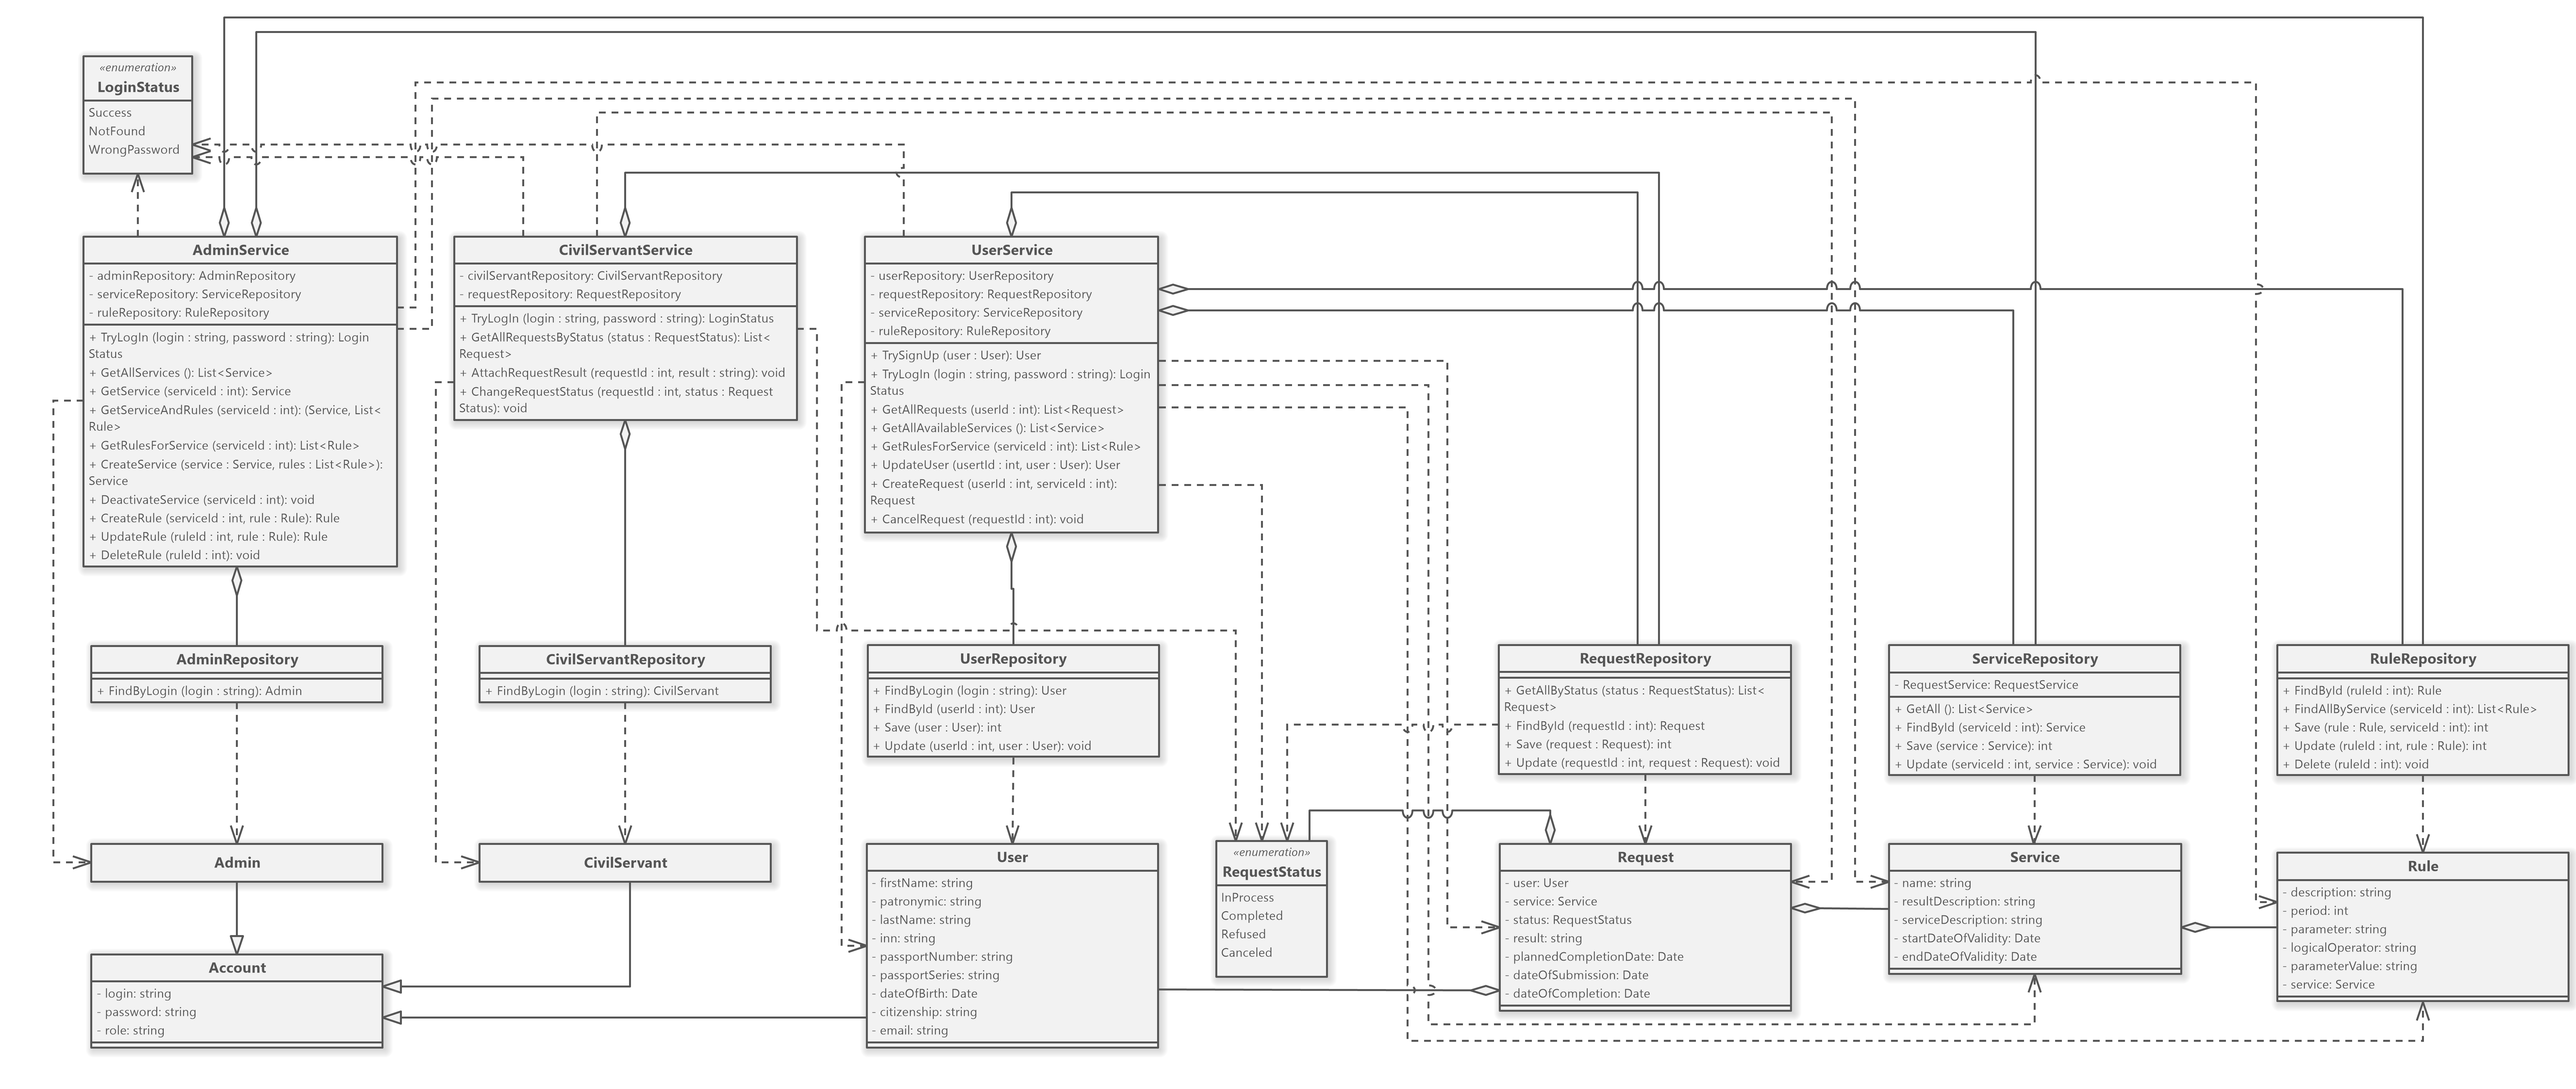
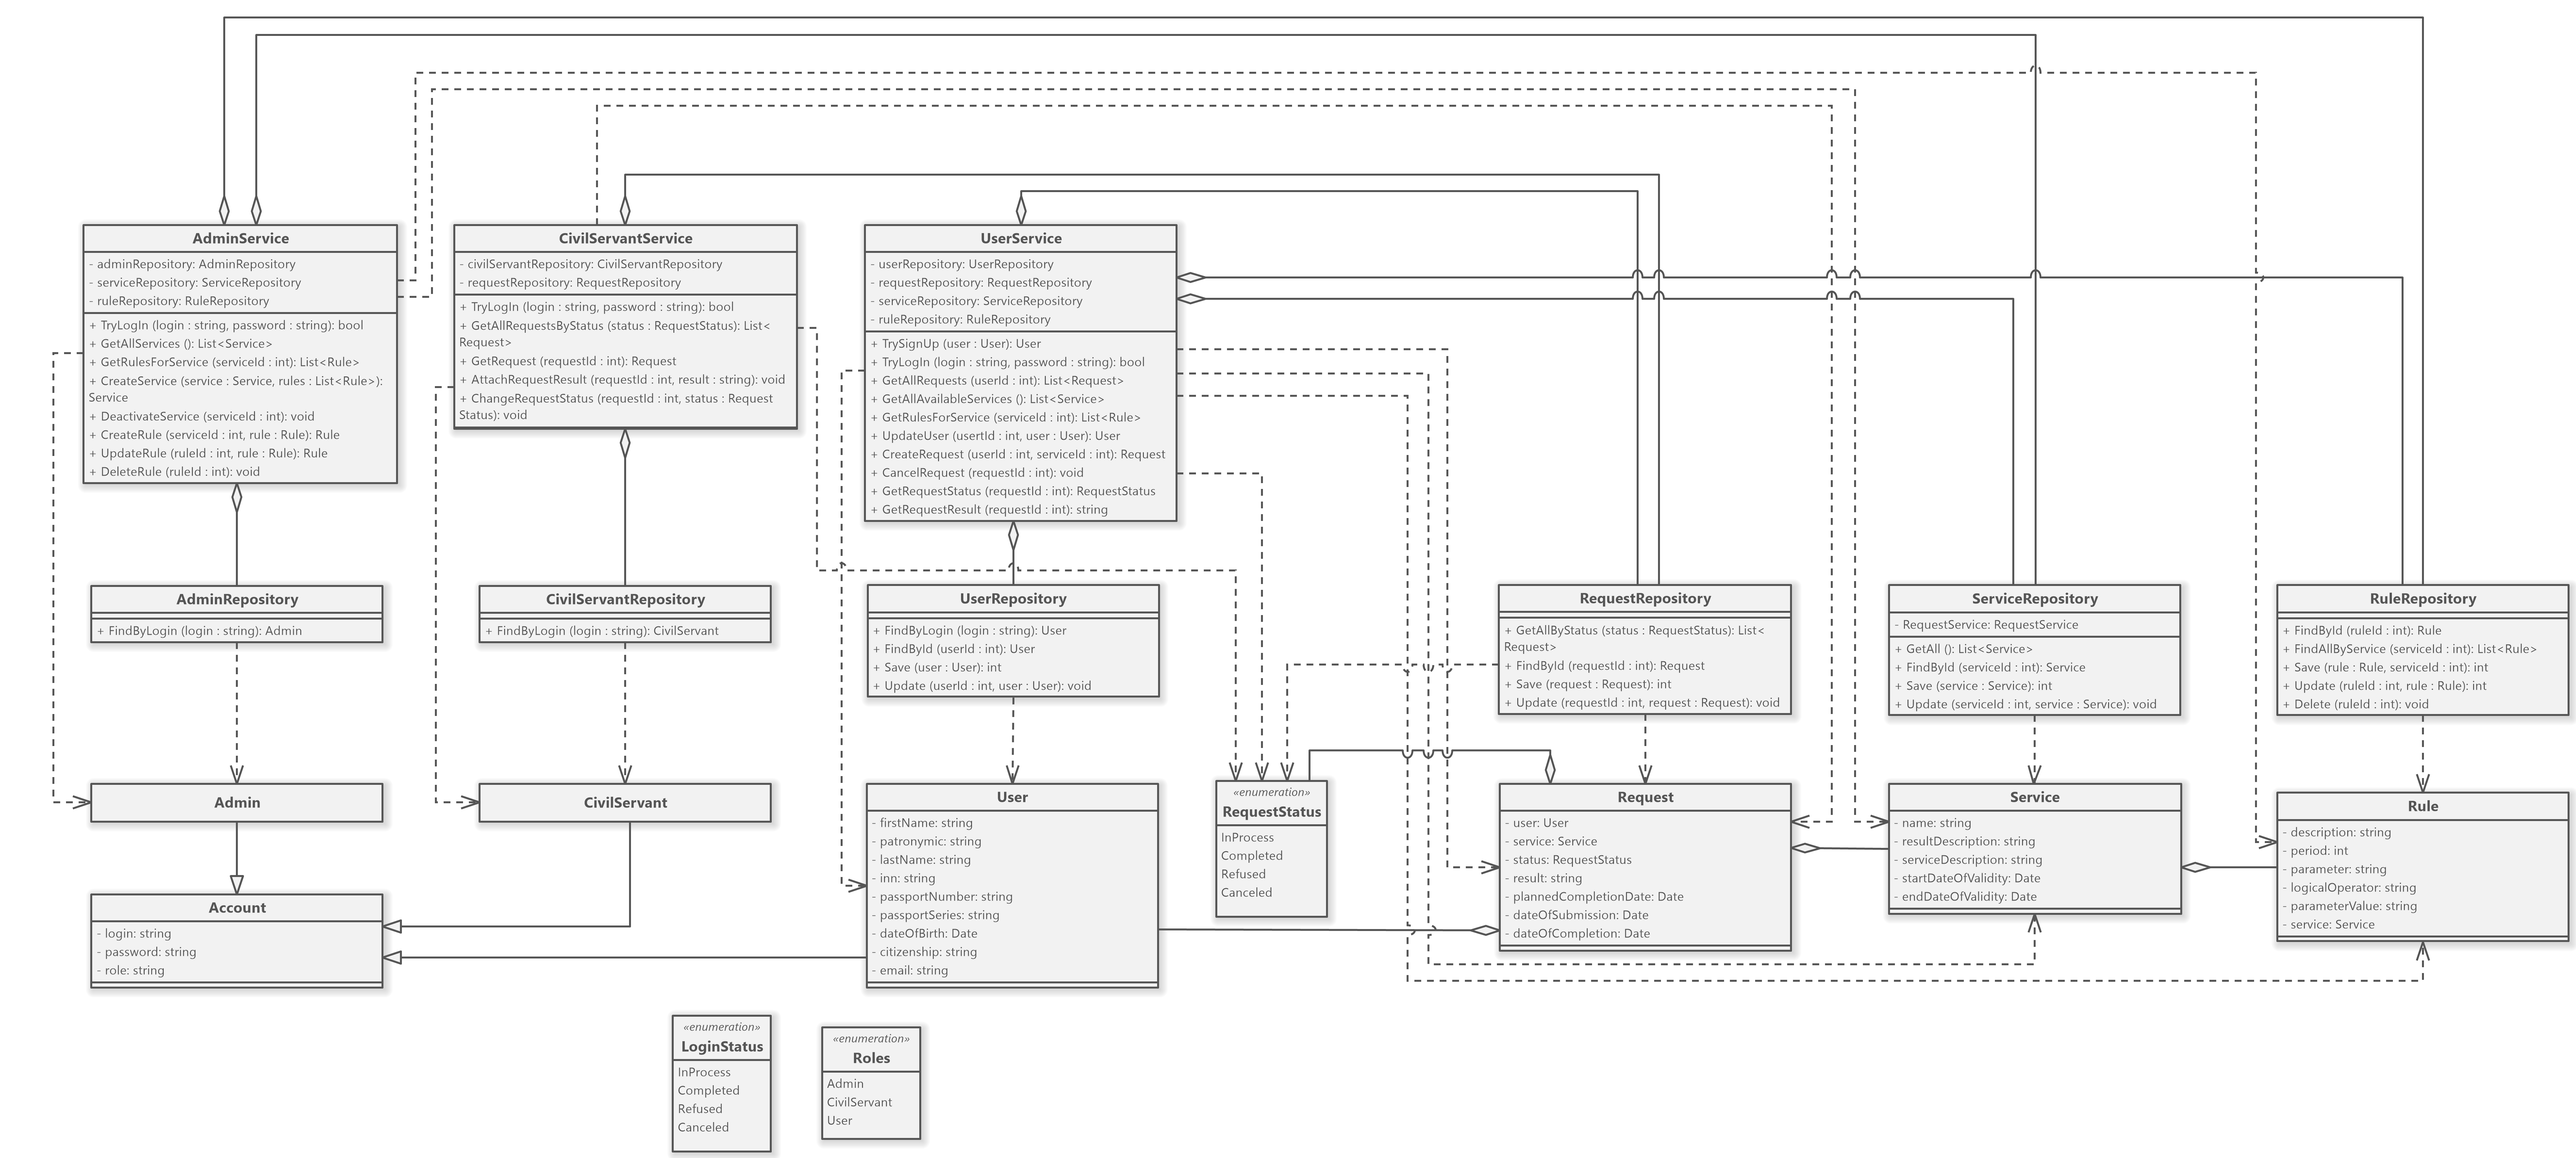
Save civil servant backend

diff --git a/Program/controllers/civilServant.controller.js b/Program/controllers/civilServant.controller.js
@@ -1,34 +1,53 @@
 const civilServantService = require("../services/civilServant.service")
+const Errors = require("../errors")
 
 class CivilServant {
     async logIn(req, res) {
-        const {login, password} = req.body
-        
-        const loginResult = await civilServantService.tryLogin(login, password)
-
-        if (loginResult === loginStatus.NOT_FOUND) {
-            return res.json("Ошибка! Не найден аккаунт.")
-        }
-
-        if (loginResult === loginStatus.WRONG_PASSWORD) {
-            return res.json("Ошибка! Указан неверный пароль.")
-        }
-
-        if (loginResult === loginStatus.SUCCESS) {
-            return res.json("Вход выполнен!")
+        try {
+            const {login, password} = req.body
+            await civilServantService.tryLogin(login, password)
+            return res.json({"message": "Вход выполнен"})
+        } catch (error) {
+            Errors.matchAndRespondError(error, res, Errors.AccountNotExist, Errors.AccountWrongPassword)
         }
     }
 
     async getRequest(req, res) {
-        
+        try {
+            const requestId = req.params.id
+            const request = await civilServantService.getRequest(requestId)
+            return res.json({"message": "Заявка получена", "request": request})
+        } catch (error) {
+            Errors.matchAndRespondError(error, res, Errors.RequestNotExist)
+        }  
+    }
+
+    async getAllRequests(req, res) {
+        const status = req.body.status  
+        const requestList = await civilServantService.getAllRequestsByStatus(status)
+        return res.json({"message": "Все заявки по статусу получены", "requests": requestList})
     }
 
     async changeRequestStatus(req, res) {
-        
+        try {
+            const requestId = req.params.id
+            const status = req.body.status
+            await civilServantService.changeRequestStatus(requestId, status)
+            return res.json({"message": "Статус изменён"})
+        } catch (error) {
+            Errors.matchAndRespondError(error, res, Errors.RequestNotExist)
+        }
     }
 
     async attachResultToRequest(req, res) {
-        
+        try {
+            const requestId = req.params.id
+            const result = req.body.result
+            await civilServantService.attachRequestResult(requestId, result)
+            return res.json({"message": "Результат прикреплён"})
+        } catch (error) {
+            Errors.matchAndRespondError(error, res, Errors.RequestNotExist)
+        }
     }
 }
 

diff --git a/Program/services/civilServant.service.js b/Program/services/civilServant.service.js
@@ -1,28 +1,54 @@
 const requestStatus = require("../constants/requestStatus")
 const civilServantRepository = require("../repositories/civilServant.repository")
 const requestRepository = require("../repositories/request.repository")
-const Request = require("../models/request")
 const Errors = require("../errors")
 
 class CivilServantService {
     async tryLogin(login, password) {
-        return new Errors.AccountNotExist()
+        const civilServant = await civilServantRepository.findByLogin(login)
+        if (civilServant) {
+            if (civilServant.password === password) {
+                return true
+            } else {
+                throw new Errors.AccountWrongPassword()
+            }
+        } else {
+            throw new Errors.AccountNotExist()
+        }
+    }
+
+    async getRequest(requestId) {
+        const request = await requestRepository.findById(requestId)
+        if (request) {
+            return request
+        } else {
+            throw new Errors.RequestNotExist()
+        }
     }
 
     async getAllRequestsByStatus(status) {
-        return [
-            new Request(),
-            new Request(),
-            new Request()
-        ]
-    }
-
-    async attachRequestResult(requestId, result) {
-        
+        const list = await requestRepository.getAllByStatus(status)
+        return list
     }
 
     async changeRequestStatus(requestId, status) {
-        
+        const request = await requestRepository.findById(requestId)
+        if (request) {
+            request.status = status
+            await requestRepository.update(requestId, request)
+        } else {
+            throw new Errors.RequestNotExist()
+        }
+    }
+
+    async attachRequestResult(requestId, result) {
+        const request = await requestRepository.findById(requestId)
+        if (request) {
+            request.result = result
+            await requestRepository.update(requestId, request)
+        } else {
+            throw new Errors.RequestNotExist()
+        }
     }
 }
 

diff --git a/Program/errors.js b/Program/errors.js
@@ -46,6 +46,14 @@ class RuleAlreadyExist extends Error {
     }
 }
 
+class RequestNotExist extends Error {
+    constructor() {
+        super("Заявки не существует")
+        this.name = "RequestNotExistError"
+        this.status = 400
+    }
+}
+
 function matchAndRespondError(error, res, ...errorClasses) {
     for (const errorClass of errorClasses) {
         if (error instanceof errorClass) {
@@ -56,7 +64,6 @@ function matchAndRespondError(error, res, ...errorClasses) {
     return res.status(500).json({ error: "Неизвестная ошибка сервера" })
 }
 
-
 module.exports = {
     AccountNotExist,
     AccountWrongPassword,
@@ -64,5 +71,6 @@ module.exports = {
     ServiceIsDeactive,
     RuleNotExist,
     RuleAlreadyExist,
+    RequestNotExist,
     matchAndRespondError
 }

diff --git a/Program/routes/civilServant.routes.js b/Program/routes/civilServant.routes.js
@@ -2,6 +2,10 @@ const Router = require("express")
 const router = new Router()
 const civilServantController = require("../controllers/civilServant.controller")
 
-router.post("/civilServant/login", civilServantController.logIn) // ✓
+router.post("/civilServant/login", civilServantController.logIn)
+router.get("/civilServant/requests", civilServantController.getAllRequests)
+router.get("/civilServant/requests/:id", civilServantController.getRequest)
+router.patch("/civilServant/requests/:id/status", civilServantController.changeRequestStatus)
+router.patch("/civilServant/requests/:id/result", civilServantController.attachResultToRequest)
 
 module.exports = router

diff --git a/3. Диаграмма классов/Классы.md b/3. Диаграмма классов/Классы.md
@@ -16,6 +16,7 @@
 ### CivilServantService
 Содержит экземпляр объекта CivilServantRepository и RequestRepository
 - TryLogIn — проверяет корректность логина и пароля и входит в существующий аккаунт
+- GetRequest — возвращает конкретную заявку
 - GetAllRequestsByStatus  — возвращает заявки по статусу
 - AttachRequestResult — прикрепляет результат заявки
 - ChangeRequestStatus —  изменяет статус заявки
